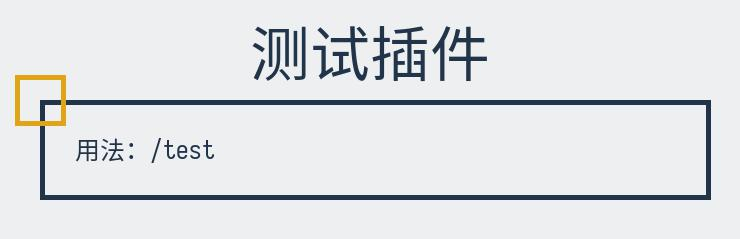
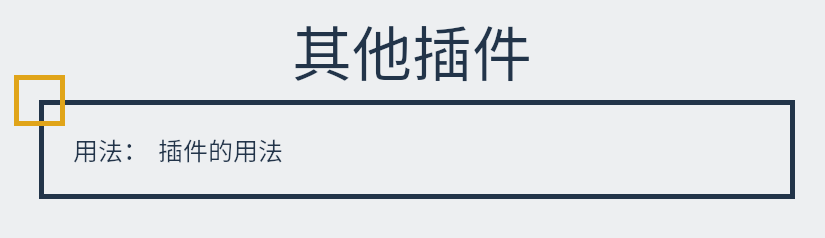
更新展示图片，修改README富文本部分

Changed region(s): [[0.0, 0.2941, 0.9635, 0.8529], [0.3419, 0.0882, 0.6838, 0.3529], [0.0932, 0.5882, 0.3419, 0.6765]]

diff --git a/README.md b/README.md
@@ -153,31 +153,31 @@ __plugin_meta__ = PluginMetadata(
 
 ---
 
-## 菜单高级信息
+## 菜单富文本
 
-menu_info 中brief_des和detail_des可以实现高级效果
+menu_info 中brief_des和detail_des可以实现部分富文本效果
 
 **Example:**
 
 ```python
-from nonebot.plugin importPluginMetadata
+from nonebot.plugin import PluginMetadata
 
 __plugin_meta__ = PluginMetadata(
-    name='怪插件',
-    description='很奇怪',
-    usage='怪',
+    name='演示插件',
+    description='演示',
+    usage='无',
     extra={
         'menu_data': [
             {
-                'func': '恶臭',
-                'trigger_method': 'on_cmd',
-                'trigger_condition': '/恶臭',
-                'brief_des': '<ft color=green>哼哼哼</ft>',
-                'detail_des': '<ft size=40>哼哼哼</ft><ft color=red>啊啊啊啊啊啊啊啊啊啊啊啊啊啊啊啊啊啊啊啊啊啊啊啊</ft>'
-            },
-            {
-                ......
-            },
+                'func': '演示',
+                'trigger_method': '......',
+                'trigger_condition': '......',
+                'brief_des': '演示用',
+                'detail_des': '<ft size=20>这是一个演示</ft>\n'
+                              '<ft size=20 color=red>这是一个演示</ft>\n'
+                              '<ft size=20 color=(0,0,255)>这是一个演示</ft>\n'
+                              '这是一个<ft size=40>演示</ft>\n'
+            }
         ],
         'menu_template': 'default'
     }
@@ -186,14 +186,12 @@ __plugin_meta__ = PluginMetadata(
 
 效果展示:
 
-![高级信息1](https://github.com/hamo-reid/nonenot_plugin_PicMenu/blob/main/show_pic/menuA1.jpg)
+![富文本信息1](https://github.com/hamo-reid/nonenot_plugin_PicMenu/blob/main/show_pic/menuA1.jpg)
 
-![高级信息2](https://github.com/hamo-reid/nonenot_plugin_PicMenu/blob/main/show_pic/menuA2.jpg)
-
-其中支持高级信息的数据:
+其中支持富文本的数据:
 
 - PluginMetadata.usage
 - brief_des
 - detail_des
 
-高级信息可支持的用法见源码nonebot_plugin_PicMenu.img_tool中multi_text方法
+富文本可支持的用法见源码nonebot_plugin_PicMenu.img_tool中multi_text方法
